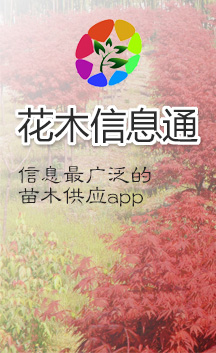
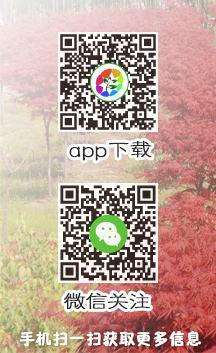
添加广告页

diff --git a/web/hmt/css/purchase/details.css b/web/hmt/css/purchase/details.css
@@ -264,8 +264,8 @@ ul.details-title {
     float: right;
     margin: 20px 20px 0 0;
     width: 340px;
-    border: #fde5d1 solid 1px;
-    background-color: #fdf3eb;
+    /*border: #fde5d1 solid 1px;*/
+    /*background-color: #fdf3eb;*/
     position: relative;
 }
 
@@ -281,11 +281,23 @@ ul.details-title {
     -webkit-border-radius: 5px;
     -moz-border-radius: 5px;
     border-radius: 5px;
+    border: #FFD0AD solid 1px;
+}
+.details .details-contact .cqr-holder .app:hover, .details .details-contact .cqr-holder .weixin:hover {
+    -webkit-box-shadow: 1px 2px 5px rgba(0, 0, 0, 0.15);
+    -moz-box-shadow: 1px 2px 5px rgba(0, 0, 0, 0.15);
+    box-shadow: 1px 2px 5px rgba(0, 0, 0, 0.15);
+    transition: all .3s;
 }
 
 .details .details-contact .cqr-holder .app img, .details .details-contact .cqr-holder .weixin img {
     display: block;
     width: 100%;
+}
+.details .details-contact .cqr-holder .app h4, .details .details-contact .cqr-holder .weixin h4 {
+    text-align: center;
+    margin-top: 5px;
+    font-size: 1rem;
 }
 
 .details .details-contact .tit {

diff --git a/web/hmt/css/supply/index.css b/web/hmt/css/supply/index.css
@@ -94,6 +94,7 @@ a:hover {
 }
 
 .container {
+    position: relative;
 }
 
 /*- ad1 -*/
@@ -853,4 +854,33 @@ i.lee-ico.lee-fb {
     font-size: 14px;
     color: #777;
     padding: 60px 0;
+}
+
+/*
+邴新科
+2016.07.12
+*/
+@media screen and (max-width: 1850px){
+    .ad-left,.ad-right{
+        display: none;
+    }
+}
+.ad-right,.ad-left{
+    border: 1px solid #ccc;
+    -webkit-box-shadow:  1px 2px  3px rgba(0,0,0,0.2);
+    -moz-box-shadow:  1px 2px  3px rgba(0,0,0,0.2);
+    box-shadow:   1px 2px  3px rgba(0,0,0,0.2);
+}
+.ad-left{
+    position: absolute;
+    left: -330px;
+    top: 20px;
+}
+.ad-right{
+    top: 20px;
+    position: absolute;
+    right: -330px;
+}
+.ad-left img, .ad-right img{
+    display: block;
 }

diff --git a/web/hmt/css/toplist.css b/web/hmt/css/toplist.css
@@ -5,6 +5,7 @@
     width: 1190px;
     padding: 20px 50px;
     margin: 0 auto;
+    position: relative;
 }
 
 .card {
